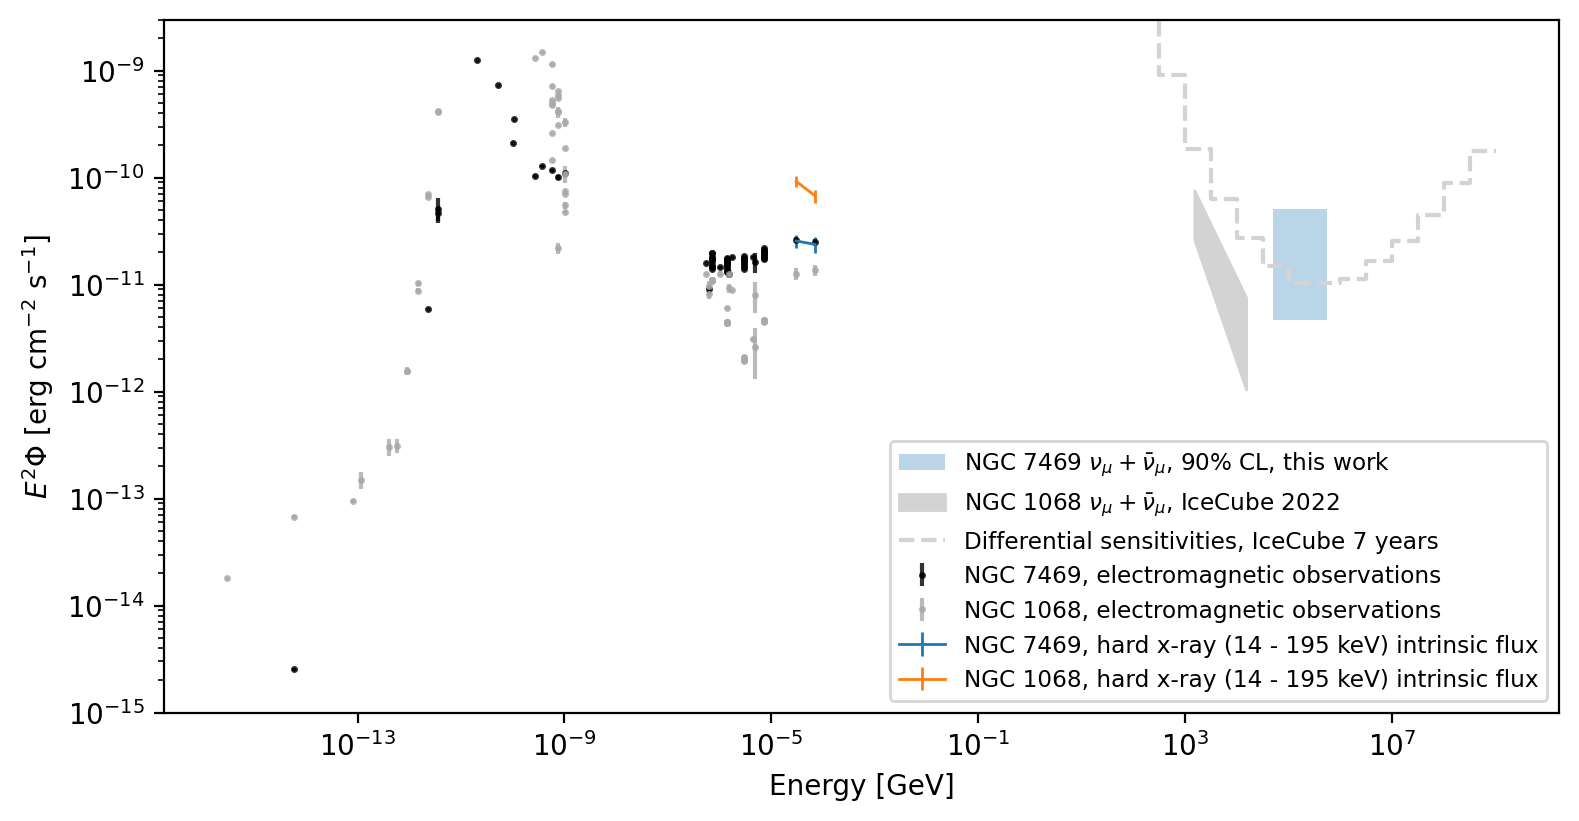
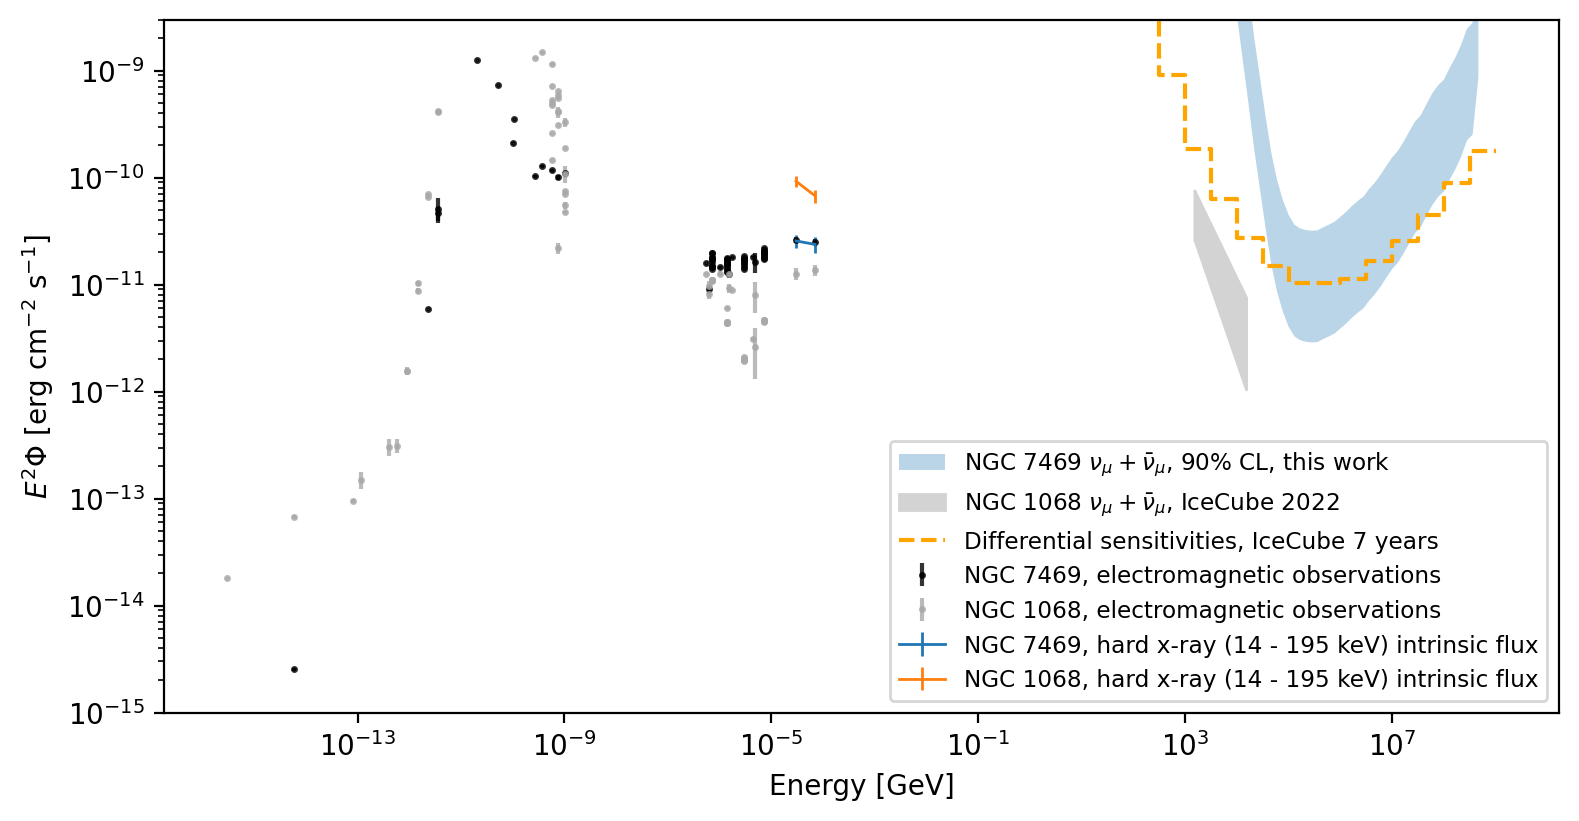
updating the estimation of confidence intervals

Changed region(s): [[0.7448, 0.0305, 0.962, 0.4263]]

diff --git a/src/produce_sed.py b/src/produce_sed.py
@@ -11,6 +11,7 @@ MJD_GOLDBRONZE_START = 58635
 DAYS_IN_YEAR = 365
 E_NU_2022 = 1.8399e05  # GeV
 E_NU_2023 = 1.2729e05  # GeV
+SUPERIOR_ENERGY_BOUND = 2e7 # GeV
 GEV_TO_ERG = 1.60218e-3
 TEV_TO_ERG = 1e3 * GEV_TO_ERG
 SECONDS_IN_YEAR = DAYS_IN_YEAR * 24 * 60 * 60
@@ -211,11 +212,13 @@ f_effA = open(data_path / "Effa_all_streams_gold_bronze.txt", "r")
 effA2022_found = False
 effA2023_found = False
 areas = list()
+energies = list()
 k = 0
 for i, x in enumerate(f_effA):
     if i > 0:
         Energy = float(x.split()[0])
         Area = float(x.split()[2])
+        energies.append(Energy)
         areas.append(Area)
         k += 1
         # Energy bins that concern the neutrino energies
@@ -257,10 +260,24 @@ yerr_2_nu = [
 # Calculate averaged energy of the two neutrinos
 averaged_energy = (E_NU_2022 * effA2022 + E_NU_2023 * effA2023) / (effA2022 + effA2023)
 
-# Span confidence intervals over 1 decade around averaged energy
-energy_space_nu_flux_7469 = np.linspace(
-    averaged_energy / 3.3, averaged_energy * 3.3, 100
+# As lower bound in energy we take 100 TeV less than the average energy.
+# (Similar to TXS paper)
+min_energy = min(E_NU_2022, E_NU_2023)
+lower_energy_bound = min_energy - 1e5
+
+# As superior bound in energy we take 20 PeV (circa the highest energy neutrinos that IceCube can hope to detect)
+energy_space_nu_flux_7469 = np.logspace(
+    1, 12, 100
 )
+#energy_space_nu_flux_7469 = np.logspace(
+#    np.log10(lower_energy_bound), np.log10(SUPERIOR_ENERGY_BOUND), 100
+#)
+
+effas_interp = np.interp(energy_space_nu_flux_7469, energies, areas)*1e4
+
+#effas = np.logspace(np.log10(min(A22_cm, A23_cm)), np.log10(areas[-4]*1e4), 100)
+E_sup_Flux_2_nu_alt = energy_space_nu_flux_7469*GEV_TO_ERG*rate_sup_2nu/(effas_interp)
+E_inf_Flux_2_nu_alt = energy_space_nu_flux_7469*GEV_TO_ERG*rate_inf_2nu/(effas_interp)
 
 print(
     f"Inferior limit on energy flux: {E_inf_Flux_2_nu:.2} erg cm-2 s-1, {E_inf_Flux_2_nu:.2}"
@@ -269,6 +286,9 @@ print(f"Superior limit on energy flux: {E_sup_Flux_2_nu:.2} erg cm-2 s-1")
 print(f"\n\n**************************************************\n\n")
 print(
     f"90% CL of neutrino flux at {averaged_energy/1e3:.0f} TeV: [{E_inf_Flux_2_nu/(TEV_TO_ERG*(averaged_energy*1e-3)**2):.3},{E_sup_Flux_2_nu/(TEV_TO_ERG*(averaged_energy*1e-3)**2):.3}] TeV-1*cm-2*s-1"
+)
+print(
+    f"Lower and superior bounds in energy: {lower_energy_bound/1e3:.0f} TeV, {SUPERIOR_ENERGY_BOUND/1e6:.0f} PeV"
 )
 print(f"\n\n**************************************************\n\n")
 
@@ -412,10 +432,19 @@ plt.errorbar(
     label="NGC 1068, electromagnetic observations",
     color="darkgrey",
 )
+"""
 plt.fill_between(
     energy_space_nu_flux_7469,
     half_log_space_2_nu - yerr_2_nu[0][0],
     half_log_space_2_nu + yerr_2_nu[1][0],
+    alpha=0.3,
+    label=r"NGC 7469 $\nu_\mu+\bar{\nu}_\mu$, 90% CL, this work",
+)
+"""
+plt.fill_between(
+    energy_space_nu_flux_7469,
+    E_sup_Flux_2_nu_alt,
+    E_inf_Flux_2_nu_alt,
     alpha=0.3,
     label=r"NGC 7469 $\nu_\mu+\bar{\nu}_\mu$, 90% CL, this work",
 )
@@ -431,7 +460,7 @@ plt.plot(
     bins_7yrs,
     fluxes_7yrs,
     label="Differential sensitivities, IceCube 7 years",
-    color="lightgrey",
+    color="orange",
     linestyle="--",
 )
 plt.errorbar(
